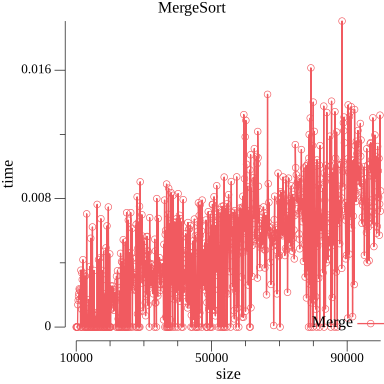
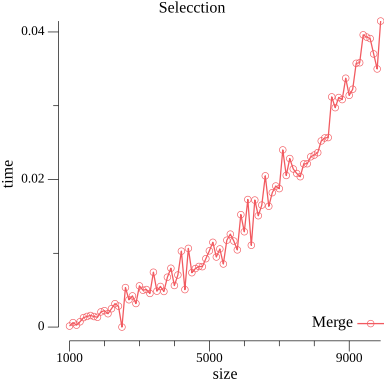
selection sort

diff --git a/main.go b/main.go
@@ -59,7 +59,7 @@ func PlotPoints(timegraph []float64, input []int64) plotter.XYs {
 
 func main() {
 	// d := utils.GetArray(10)
-	// r := sorting.MergeSort(d)
+	// r := sorting.Selection(d)
 	// fmt.Println(r)
 	// return
 
@@ -69,12 +69,12 @@ func main() {
 	for _, row := range rows {
 		started := time.Now()
 		inputrow = append(inputrow, int64(len(row)))
-		sorting.MergeSort(row)
+		sorting.Selection(row)
 		ended := time.Now()
 		duration := ended.Sub(started)
 		timegraph = append(timegraph, duration.Seconds())
 		fmt.Println(duration.Seconds())
 	}
 
-	Plotter("MergeSort", timegraph, inputrow)
+	Plotter("Selecction", timegraph, inputrow)
 }

diff --git a/sorting/sorting.go b/sorting/sorting.go
@@ -25,6 +25,24 @@ func MergeSort(arr []int64) []int64 {
 	return merge(left, right)
 }
 
+func Selection(A []int64) []int64 {
+	var min_index int
+	var temp int64
+	for i := 0; i < len(A)-1; i++ {
+		min_index = i
+		// Find index of minimum element
+		for j := i + 1; j < len(A); j++ {
+			if A[j] < A[min_index] {
+				min_index = j
+			}
+		}
+		temp = A[i]
+		A[i] = A[min_index]
+		A[min_index] = temp
+	}
+	return A
+}
+
 func merge(left, right []int64) []int64 {
 	result := make([]int64, 0, len(left)+len(right))
 	i, j := 0, 0

diff --git a/utils/inputer.go b/utils/inputer.go
@@ -13,7 +13,7 @@ func GetArray(size int64) []int64 {
 
 func GetInputForGraph() [][]int64 {
 	result := [][]int64{}
-	for i := 10000; i < 100000; i += 100 {
+	for i := 1000; i < 10000; i += 100 {
 		result = append(result, GetArray(int64(i)))
 	}
 
